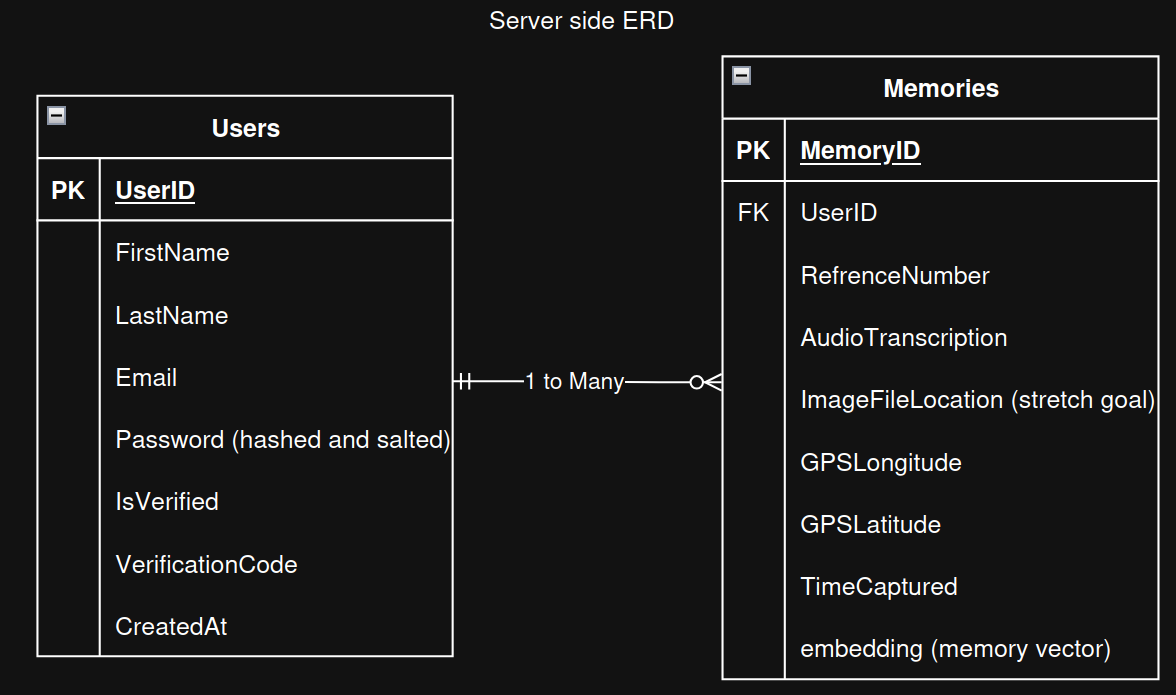
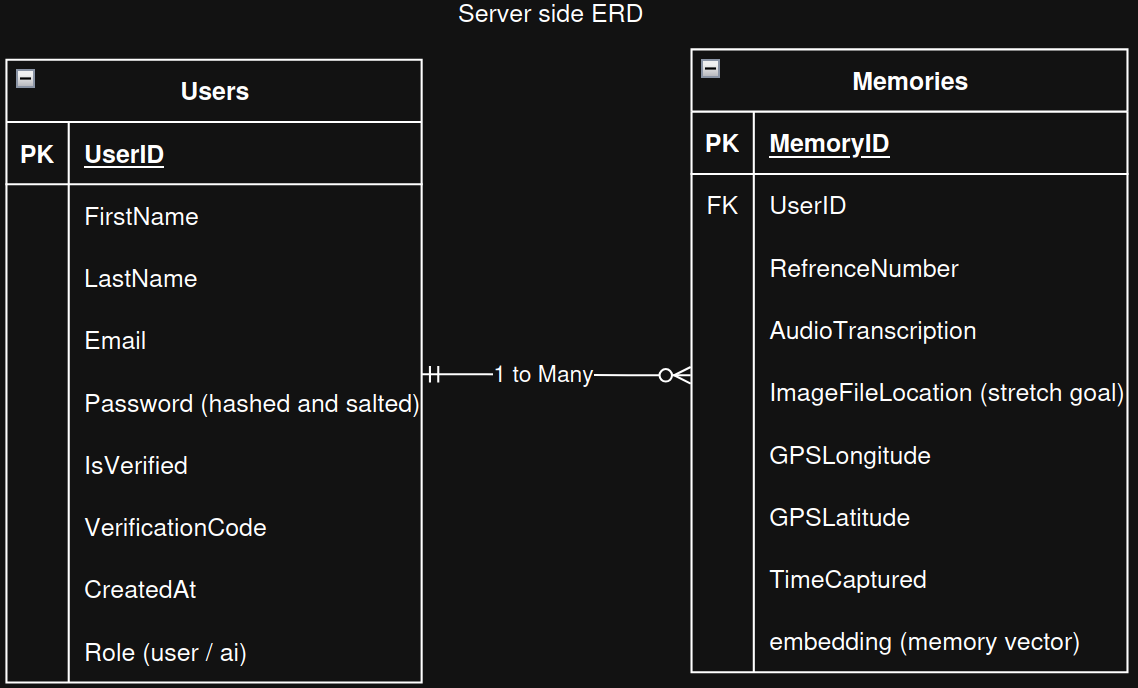
feat(api): added delete account endpoint

Changed region(s): [[0.0, 0.061, 1.0, 1.0], [0.3998, 0.0, 0.5844, 0.061]]

diff --git a/backend-remote/routes/account-route.js b/backend-remote/routes/account-route.js
@@ -1,0 +1,67 @@
+const express = require('express');
+const router = express.Router();
+const authenticateToken = require('../middleware/auth');
+
+module.exports = (pool) => {
+
+	// Insert a single memorie's details without sending it to the AI
+	router.delete('/:userId', authenticateToken, async (req, res) => {
+		const requestedUserId = parseInt(req.params.userId, 10);
+		const authenticatedUserId = req.user.userId;
+
+		if(isNaN(requestedUserId) || requestedUserId !== authenticatedUserId) {
+			return res.status(403).json({
+				success: false,
+				message: 'Access denied.'
+			});
+		}
+
+		// set-up the database client
+		const client = await pool.connect();
+
+		try {
+			
+			//start the sql query
+			await client.query('BEGIN');
+
+			//Delete the user's memories
+			const deleteMemoryResult = await pool.query(`DELETE FROM memories WHERE userid=$1 RETURNING memoryid`, [requestedUserId]);
+
+			//Delete the user's account
+			const deleteUserResult = await pool.query(`DELETE FROM users WHERE userid=$1 RETURNING userid`, [requestedUserId]);
+
+			if (deleteUserResult.rowCount === 0) {
+				// revert the changes the query made
+				await client.query('ROLLBACK');
+				return res.status(404).json({
+					success: false,
+					message: 'User not found.'
+				});
+			}
+
+			// commit the changes the query makes
+			await client.query('COMMIT');
+
+			return res.status(200).json({
+				success: true,
+				memories: deleteMemoryResult.rows,
+				userId: deleteUserResult.rows[0].userid,
+				message: 'account deleted successfully.'
+			});
+
+		} catch (error) {
+			return res.status(500).json({
+				success: false,
+				message: 'Internal server error.',
+				error: error.message
+			});
+		} finally {
+			// release the database client
+			client.release();
+		}
+
+	});
+
+	return router;
+
+};

diff --git a/backend-remote/server.js b/backend-remote/server.js
@@ -39,6 +39,11 @@ app.use('/query', queryRouter);
 const memoryRouter = require('./routes/memory-route')(pool);
 app.use('/memory', memoryRouter);
 
+// Import and mount the account routes, passing the pool object
+// used to modify user acount (such as delete it)
+const accountRouter = require('./routes/account-route')(pool);
+app.use('/account', accountRouter);
+
 
 app.listen(PORT, () => {
 	console.log(`Remote backend is listening on port ${PORT}`);

diff --git a/backend-remote/routes/query-route.js b/backend-remote/routes/query-route.js
@@ -23,5 +23,9 @@ module.exports = (pool) => {
 			return res.status(500).json({ success: false, message: 'Internal server error.', error: error.message });
 		}
 	});
+
+	router.post('/retriever', authenticateToken, async (req, res) => {
+	});
+
 	return router;
 };

diff --git a/docs/backend-remote.md b/docs/backend-remote.md
@@ -247,7 +247,7 @@ Body: audiotranscription, imagefilelocation, gpslongitude, gpslatitude, timecapt
 Protected route: true
 
 Return on success:  
-	Status: 200  
+	Status: 201  
 	{  
 		"success": true,
 		"message": "Memory inserted successfully.",
@@ -381,4 +381,38 @@ Return on server error:
 		message: 'Internal server error.',  
 		error: error.message  
 	}
+
+### DELETE /account/:userId
+
+Purpose: This endpoint takes in a user's id and deletes all the users memories and their account
+
+Paramaters: None
+Body: None
+
+Protected route: true
+
+Return on success:  
+	Status: 200  
+	{  
+		success: true,
+		memories: deleteMemoryResult.rows,
+		userId: deleteUserResult.rows[0].userid,
+		message: 'account deleted successfully.'
+	}  
+
+Return on unathorized:  
+	Status: 403  
+	{  
+		"success": false,
+		"message": "Access denied."
+	}  
+
+Return on server error:  
+	Status: 500  
+	{  
+		success: false,  
+		message: 'Internal server error.',  
+		error: error.message  
+	}
+
 
